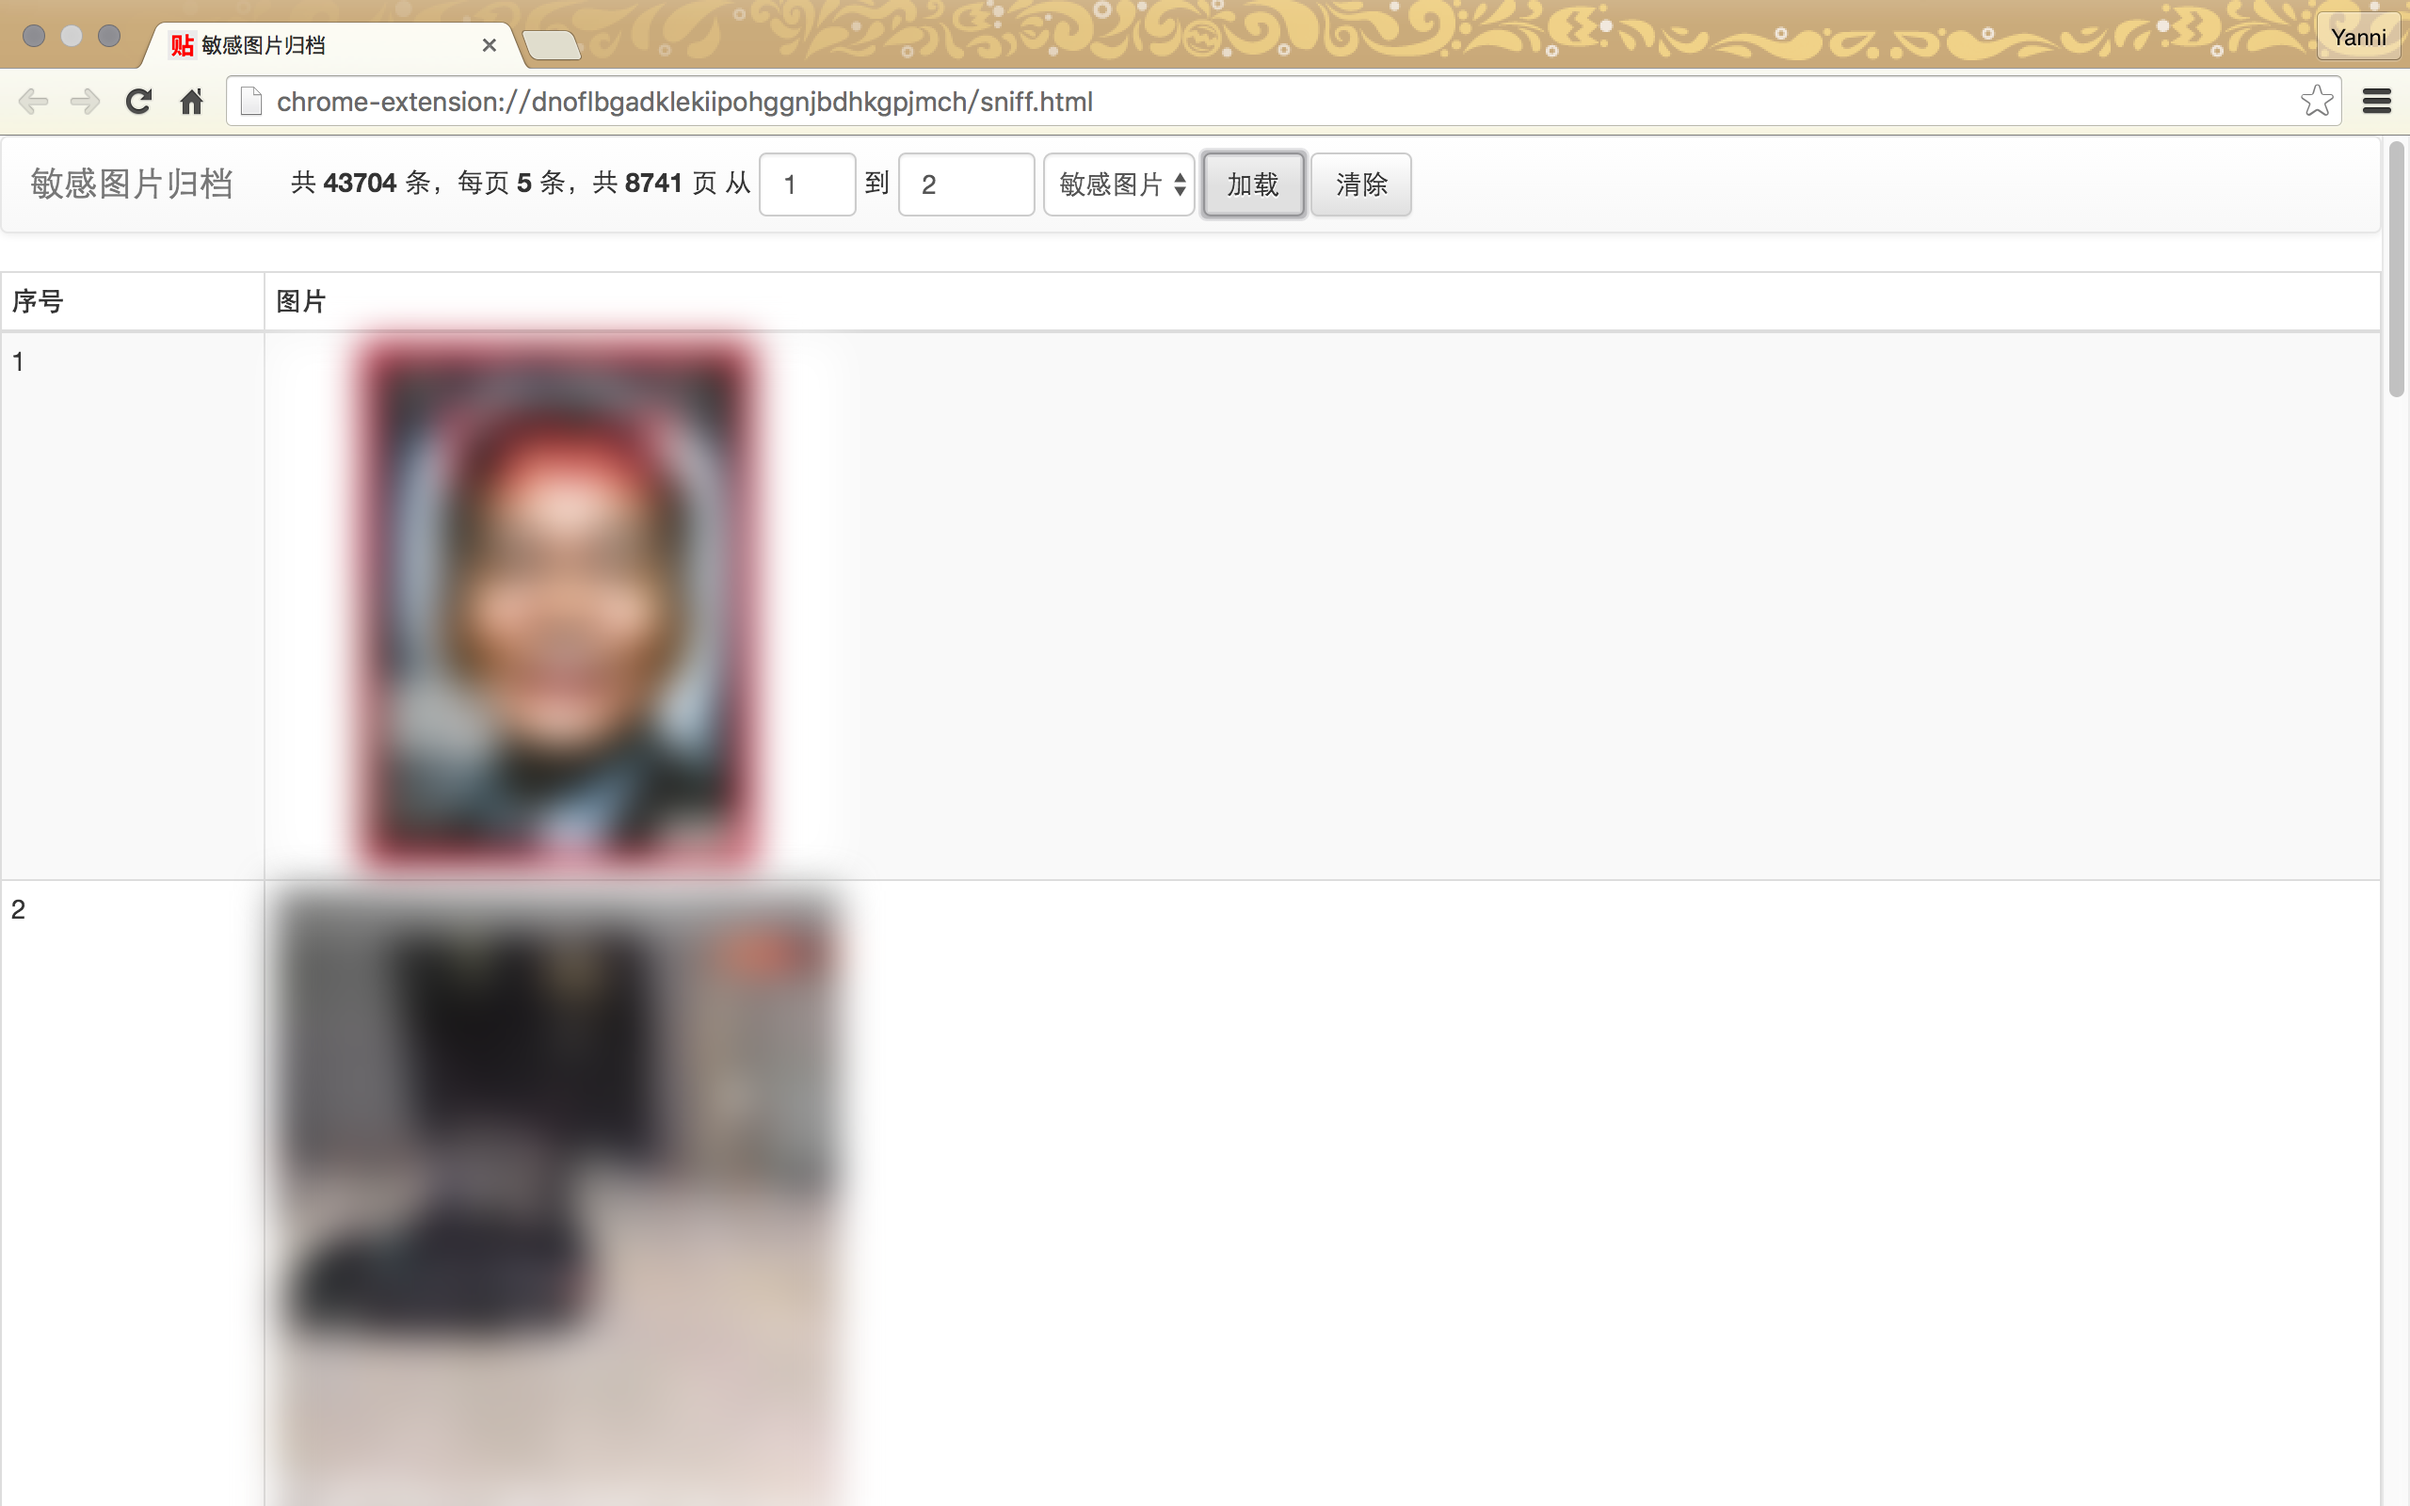
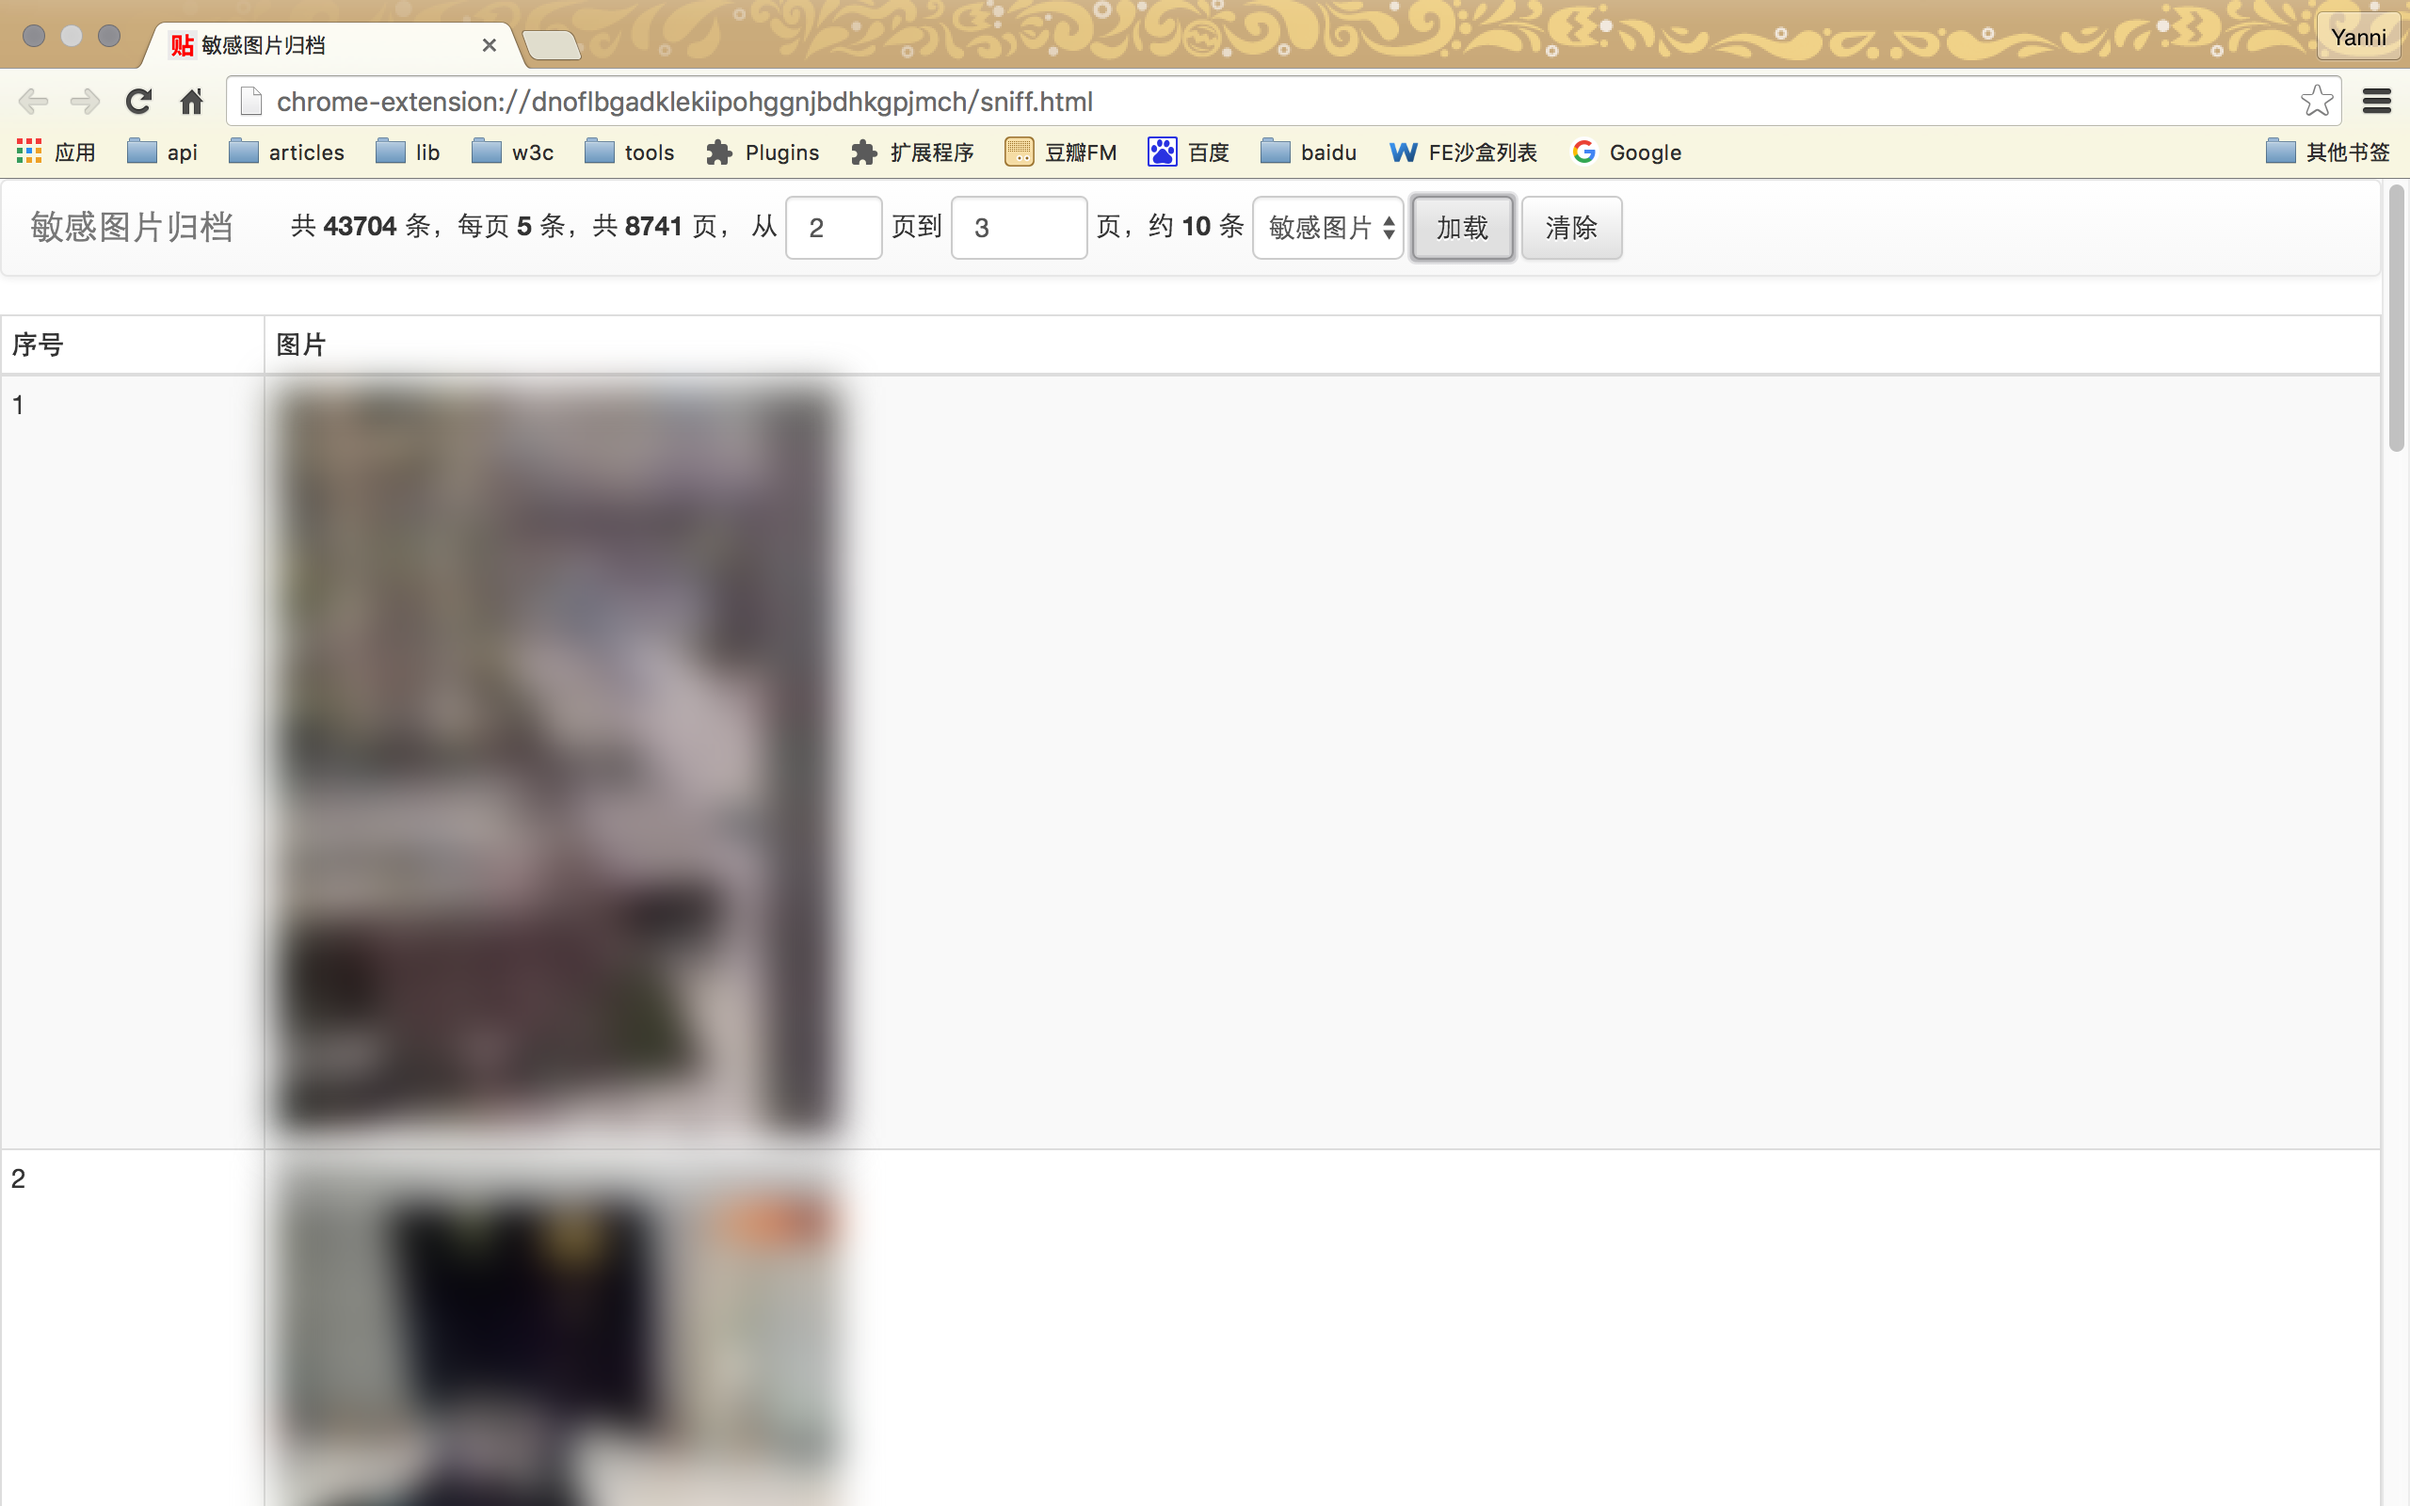
items count

Changed region(s): [[0.0, 0.1875, 0.9688, 1.0], [0.0, 0.0625, 1.0, 0.1875], [0.9688, 0.25, 1.0, 0.3125]]

diff --git a/sniff.html b/sniff.html
@@ -33,8 +33,8 @@
                     <div class="collapse navbar-collapse" id="bs-example-navbar-collapse-1">
                         <div class="navbar-form navbar-left">
                             <div class="form-group">
-                                <span>共 <b>{{totalNums}}</b> 条，每页 <b>{{itemsPerPage}}</b> 条，共 <b>{{totalPages}}</b> 页</span>
-                                <span>从 <input class="form-control" type="number" :value="startPage" :min="1" :max="endPage" @change="setStartPage"> 到 <input class="form-control" type="number" :value="endPage" :min="startPage" :max="totalPages" @change="setEndPage"></span>
+                                <span>共 <b>{{totalNums}}</b> 条，每页 <b>{{itemsPerPage}}</b> 条，共 <b>{{totalPages}}</b> 页</span>，
+                                <span>从 <input class="form-control" type="number" :value="startPage" :min="1" :max="endPage" @change="setStartPage"> 页到 <input class="form-control" type="number" :value="endPage" :min="startPage" :max="totalPages" @change="setEndPage"> 页，约 <b>{{itemsCount}}</b> 条</span>
                                 <select class="form-control" @change="updateImgTag">
                                     <option value="1" selected="selected">敏感图片</option>
                                     <option value="0">色情图片</option>

diff --git a/src/sniffer.js b/src/sniffer.js
@@ -61,7 +61,8 @@ const vuex = {
         startPage: () => store.state.startPage,
         endPage: () => store.state.endPage,
         imgTag: () => store.state.imgTag,
-        images: () => store.state.images
+        images: () => store.state.images,
+        itemsCount: () => store.state.itemsPerPage * (store.state.endPage - store.state.startPage + 1)
     },
     actions: {
         fetchTotalPages: () => {
